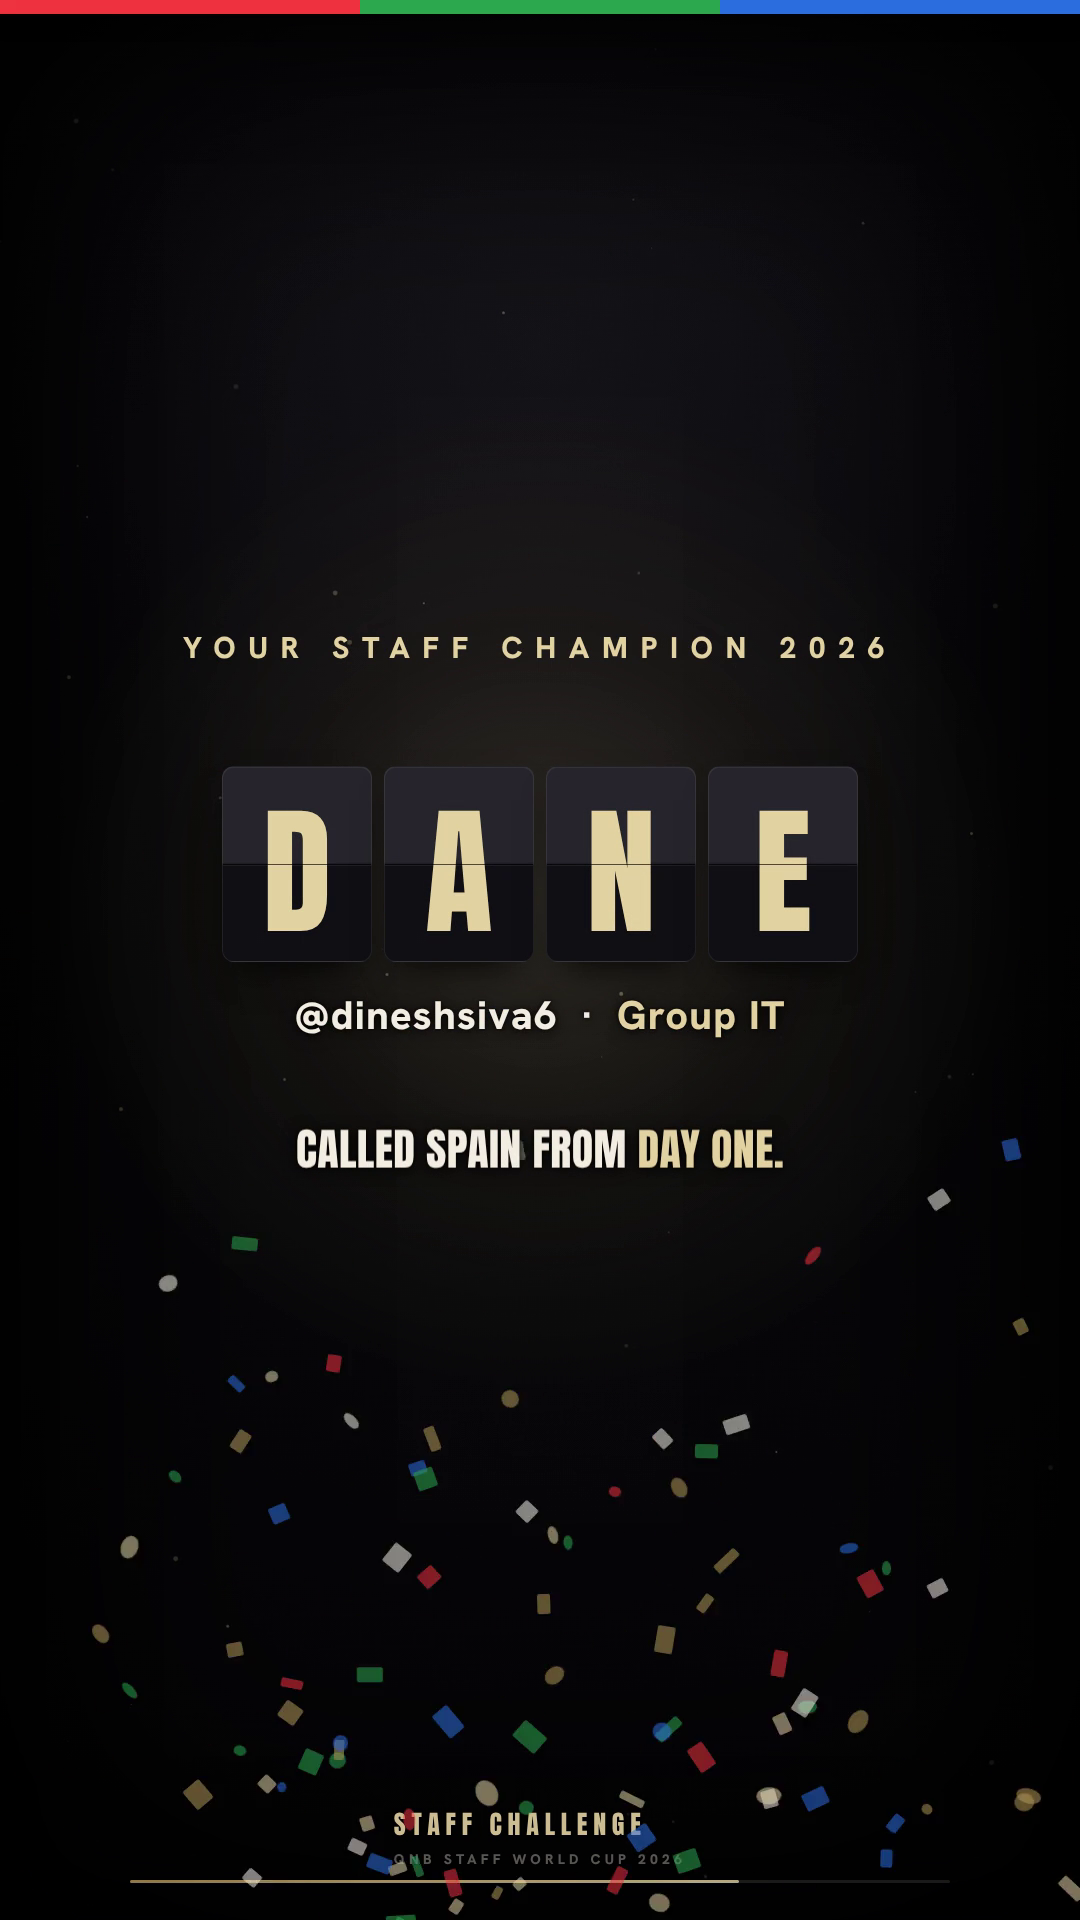
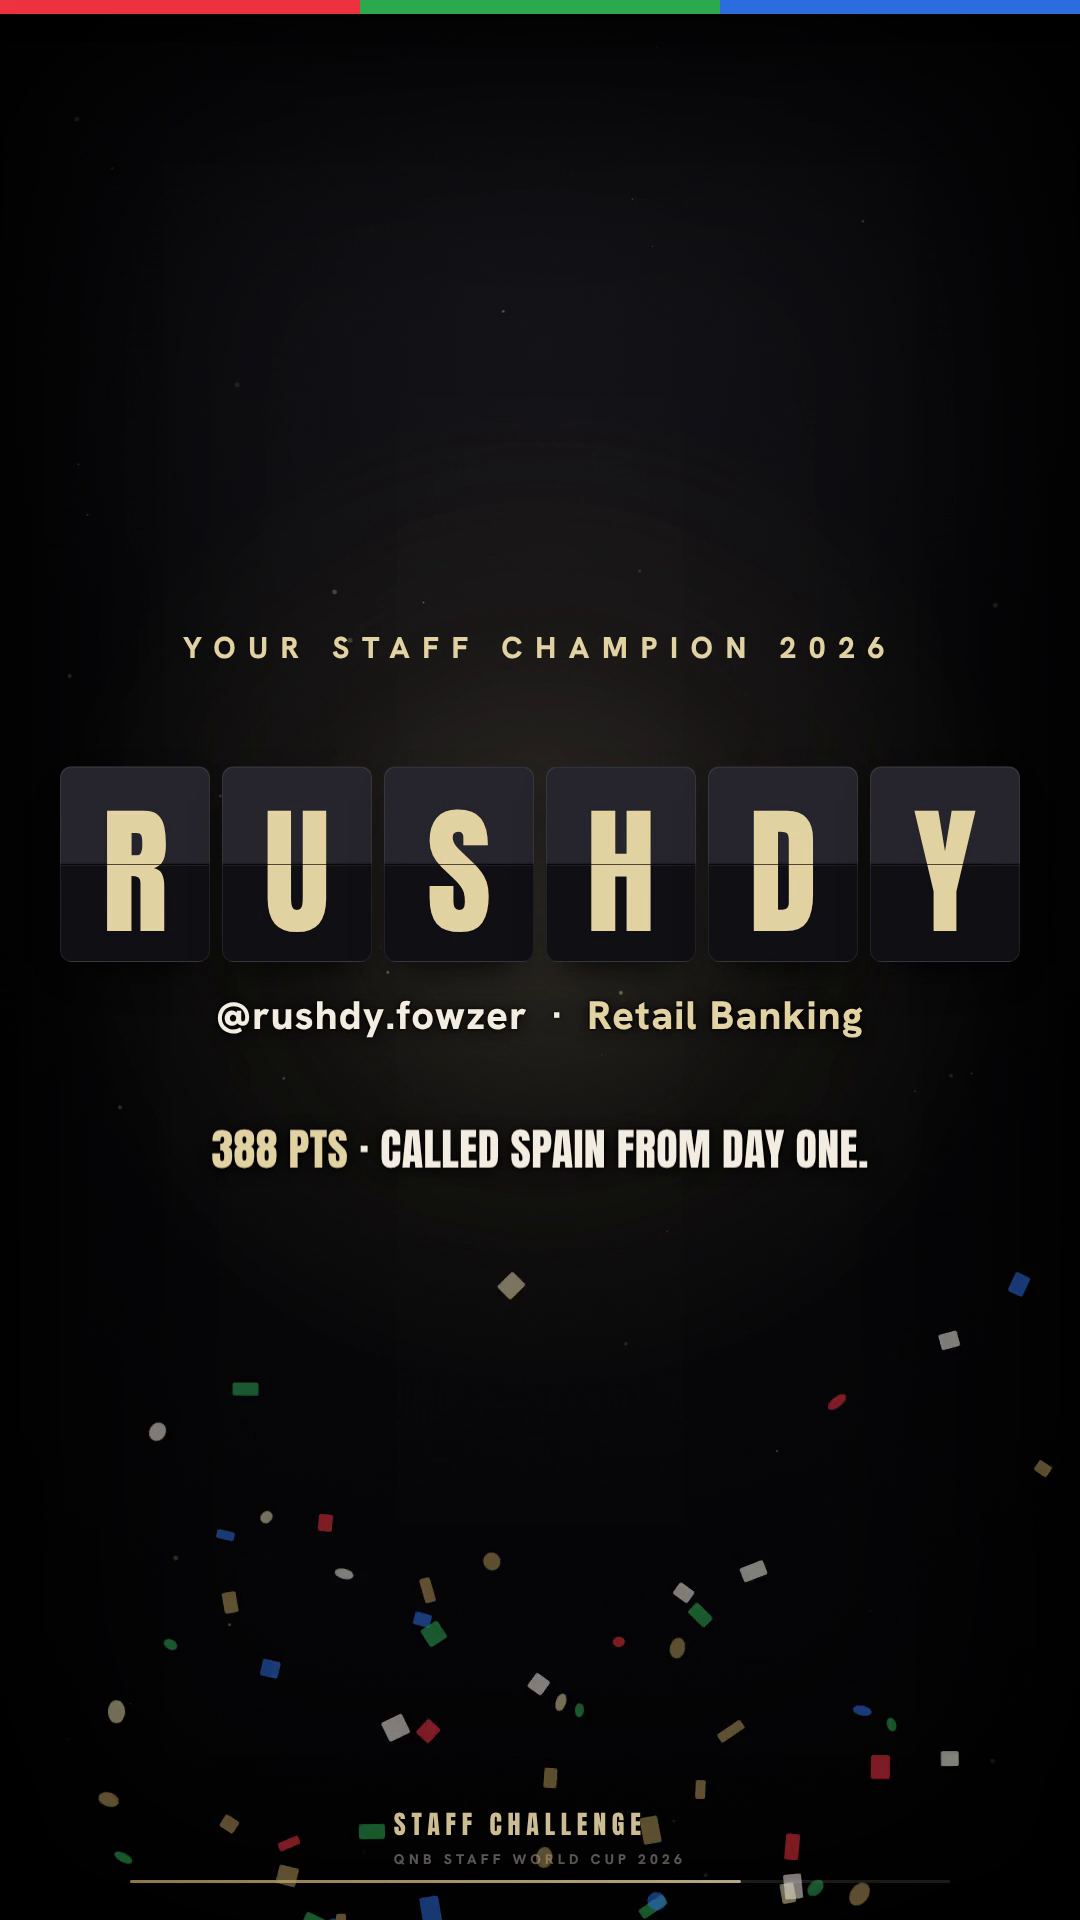
Correct recap reel champion to Rushdy Fowzer (final-inclusive standings)
The first cut used wc:ranksnap, a leaderboard snapshot written at 21:00 - an hour BEFORE the final result was scored at 22:28 - so it crowned the pre-final leader (Dane). Recomputed the true final standings with the app's own scoring engine (standings() / wc_standings_compute in sql/standings.sql) against the final-inclusive wc:results: champion is Rushdy Fowzer (@user.fowzer, Retail Banking, 388 pts, 20 exact), with Dane 2nd (384) and @user 3rd (368). Updated the champion reveal, podium, cover frame, README and caption accordingly.

Claude-Session: https://claude.ai/code/session_018Jn4zYw4wCFaoU6XaRDvdX

diff --git a/reel/spine.html b/reel/spine.html
@@ -141,8 +141,8 @@
   <div id="s4pod"></div>
   <div class="c kick z20" id="s4over" style="top:648px;font-size:30px;color:var(--gb)">Your&nbsp;Staff&nbsp;Champion&nbsp;2026</div>
   <div class="flaprow z20" id="s4flap" style="top:864px"></div>
-  <div class="c z20" id="s4name" style="top:1016px;font-family:var(--font-b);font-weight:800;font-size:40px;color:var(--cream);letter-spacing:.03em">@dineshsiva6&nbsp;&nbsp;·&nbsp;&nbsp;<span style="color:var(--gb)">Group&nbsp;IT</span></div>
-  <div class="c z20" id="s4tag" style="top:1150px;font-family:var(--font-d);font-size:44px;letter-spacing:.4px;color:var(--cream)">CALLED&nbsp;SPAIN&nbsp;FROM&nbsp;<span style="color:var(--gb)">DAY&nbsp;ONE.</span></div>
+  <div class="c z20" id="s4name" style="top:1016px;font-family:var(--font-b);font-weight:800;font-size:40px;color:var(--cream);letter-spacing:.03em">@rushdy.fowzer&nbsp;&nbsp;·&nbsp;&nbsp;<span style="color:var(--gb)">Retail&nbsp;Banking</span></div>
+  <div class="c z20" id="s4tag" style="top:1150px;font-family:var(--font-d);font-size:44px;letter-spacing:.4px;color:var(--cream)"><span style="color:var(--gb)">388&nbsp;PTS</span>&nbsp;·&nbsp;CALLED&nbsp;SPAIN&nbsp;FROM&nbsp;DAY&nbsp;ONE.</div>
 
   <!-- S5 Maldives -->
   <div class="c kick" id="s5top" style="top:648px;font-size:30px;color:var(--gb)">First&nbsp;Prize&nbsp;·&nbsp;Trip&nbsp;for&nbsp;One</div>
@@ -197,7 +197,7 @@ for(let i=0;i<170;i++){const e=document.createElement('div');e.className='conf';
 function buildFlap(container,text,cls){container.innerHTML='';const tiles=[];
   for(const ch of text){const t=document.createElement('div');t.className='tile '+cls;t.textContent=ch;container.appendChild(t);tiles.push(t);}
   container.__tiles=tiles;return tiles;}
-buildFlap($('s4flap'),'DANE','big');
+buildFlap($('s4flap'),'RUSHDY','big');
 buildFlap($('s5flap'),'MALDIVES','sm');
 
 /* flap reveal: each tile drops/settles at start+ i*stag */
@@ -225,9 +225,9 @@ const raceTarget=[0.42,0.55,0.5,0.68,1.0,0.6,0.47]; // relative final heights, l
 /* ---------- podium (3rd + 2nd; 1st becomes the hero) ---------- */
 const podWrap=$('s4pod');
 const podData=[
-  {medal:'🥈',rank:'2',handle:'@cemcamldr',h:300,cls:'silver'},
-  {medal:'🥇',rank:'1',handle:'@dineshsiva6',h:390,cls:'gold',hero:true},
-  {medal:'🥉',rank:'3',handle:'@dave.mccloud.988',h:230,cls:'bronze'}
+  {rank:'2',handle:'@dineshsiva6',h:300,cls:'silver'},
+  {rank:'1',handle:'@rushdy.fowzer',h:390,cls:'gold',hero:true},
+  {rank:'3',handle:'@cemcamldr',h:230,cls:'bronze'}
 ];
 podData.forEach(d=>{const col=document.createElement('div');col.className='pcol '+d.cls;
   col.innerHTML=`<div class="phandle">${d.handle}</div><div class="pblock" style="height:0px"><b>${d.rank}</b></div>`;

diff --git a/reel/caption.md b/reel/caption.md
@@ -7,7 +7,7 @@
 
 But the real final? That was in the office. 😅
 
-👑 Your Staff Champion 2026: @dineshsiva6 (Group IT) — backed Spain from Day One and topped the whole leaderboard. 🥈 @cemcamldr · 🥉 @dave.mccloud.988
+👑 Your Staff Champion 2026: @rushdy.fowzer (Retail Banking) — 388 points, 20 exact scorelines, and he called Spain from Day One. He pipped @dineshsiva6 on the final whistle. 🥈 @dineshsiva6 · 🥉 @cemcamldr
 
 Prize is now boarding… ✈️🏝️ the Maldives.
 
@@ -16,13 +16,13 @@ See you at the next one. 🔮
 
 ## Option B — short & bold
 6 weeks. 732 players. 1 champion. 🏆
-Spain won the World Cup — @dineshsiva6 won the office. 👑✈️🏝️
-Congrats Dane, enjoy the Maldives. See you next tournament.
+Spain won the World Cup — @rushdy.fowzer won the office (388 pts). 👑✈️🏝️
+Enjoy the Maldives. See you next tournament.
 #StaffChallenge #WorldCup2026 #Maldives #Champions #Reels
 
 ## Option C — understated
 The Staff Challenge 2026 is done. 🏁
-Champions of the world: Spain. Champion of the office: @dineshsiva6. 👑
+Champions of the world: Spain. Champion of the office: @rushdy.fowzer (388 pts). 👑
 104 matches, 732 of us, one trip to the Maldives. Thank you all for playing. 🤝
 #StaffChallenge #WorldCup2026 #Maldives #OfficePool
 
@@ -30,11 +30,11 @@ Champions of the world: Spain. Champion of the office: @dineshsiva6. 👑
 
 ## Posting notes
 - **Format:** already 9:16, 1080×1920, 33s — post as a Reel (fits Reels/Stories/TikTok as-is).
-- **Cover/thumbnail:** use `cover_title.png` (clean, on-brand) or `cover_champion.png` (the winner). Set it as the Reel cover in the editor.
+- **Cover/thumbnail:** use `cover_title.png` (clean) or `cover_champion.png` (the winner). Set it as the Reel cover in the editor.
 - **Audio:** the reel ships with a subtle sound-design bed. For maximum reach, add a
   trending licensed track in the Instagram app (search Reels audio) — it layers over
   the built-in impacts without clashing, and trending audio boosts distribution.
-- **Tag the people** you featured (@dineshsiva6, @cemcamldr, @dave.mccloud.988) so it
+- **Tag the people** you featured (@rushdy.fowzer, @dineshsiva6, @cemcamldr) so it
   lands in their notifications — with their okay.
 - **Hook:** the first ~1s (tri-color slash + wordmark) is the scroll-stopper; don't add
   an intro card before it.

diff --git a/reel/README.md b/reel/README.md
@@ -8,13 +8,15 @@ QNB Staff World Cup 2026 prediction pool.
 
 ## The story (all real data)
 - **Tournament:** Spain are World Champions — Spain 1–0 Argentina (a.e.t.), Ferran Torres in extra time (19 Jul 2026).
-- **Pool champion:** Dane (`@dineshsiva6`, Group IT) — backed Spain from day one and topped the field.
-- **Podium:** 🥇 @dineshsiva6 · 🥈 @cemcamldr · 🥉 @dave.mccloud.988
+- **Pool champion:** Rushdy Fowzer (`@rushdy.fowzer`, Retail Banking) — 388 pts, 20 exact scorelines, called Spain; overtook Dane on the final night.
+- **Podium:** 🥇 @rushdy.fowzer (388) · 🥈 @dineshsiva6 / Dane (384) · 🥉 @cemcamldr (368)
 - **Scale:** 732 players · 104 matches · 39 days (11 Jun → 19 Jul) · every department.
 - **Prize:** the Maldives (1st) · QNB Life Rewards (2nd/3rd).
 
-Facts were sourced from the live pool backend (Supabase `kv` keys `wc:ranksnap`,
-`wc:results`, `wc:highlight`, and per-player `wc:player:*` records). No invented numbers.
+Final standings were computed with the app's own scoring engine (`standings()` /
+`wc_standings_compute()` in `sql/standings.sql`) against the **final-inclusive**
+`wc:results` — not the pre-final `wc:ranksnap` snapshot (which was written an hour
+before the final was scored). No invented numbers.
 
 ## Brand fidelity
 Rendered in the app's own design system so it reads as "paid for," not generic: